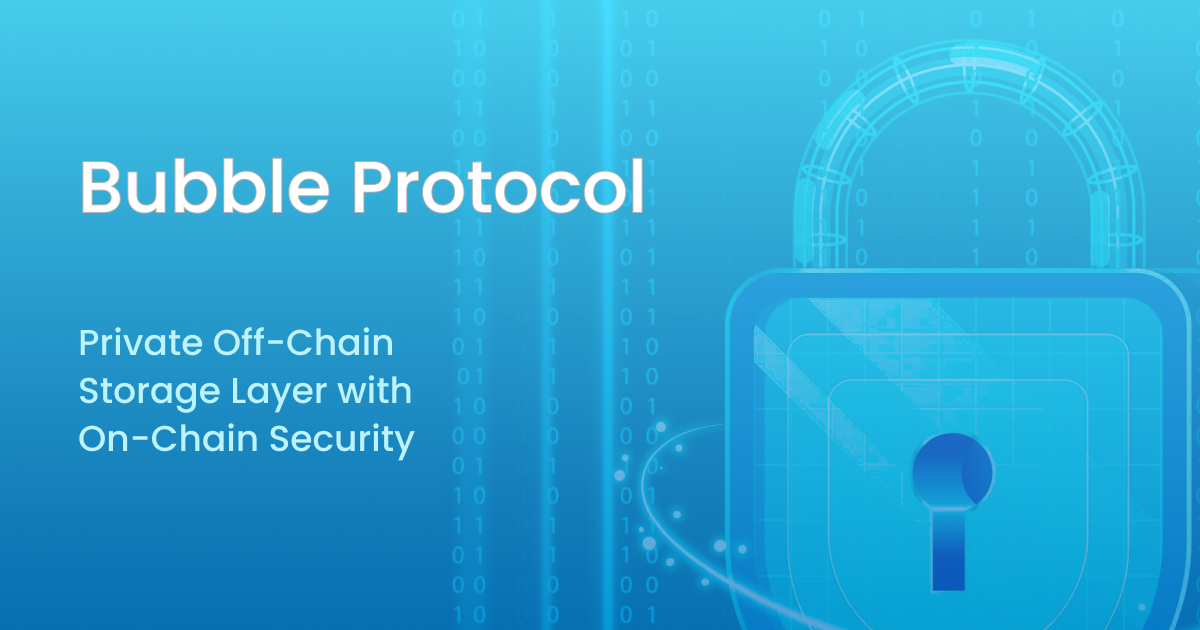
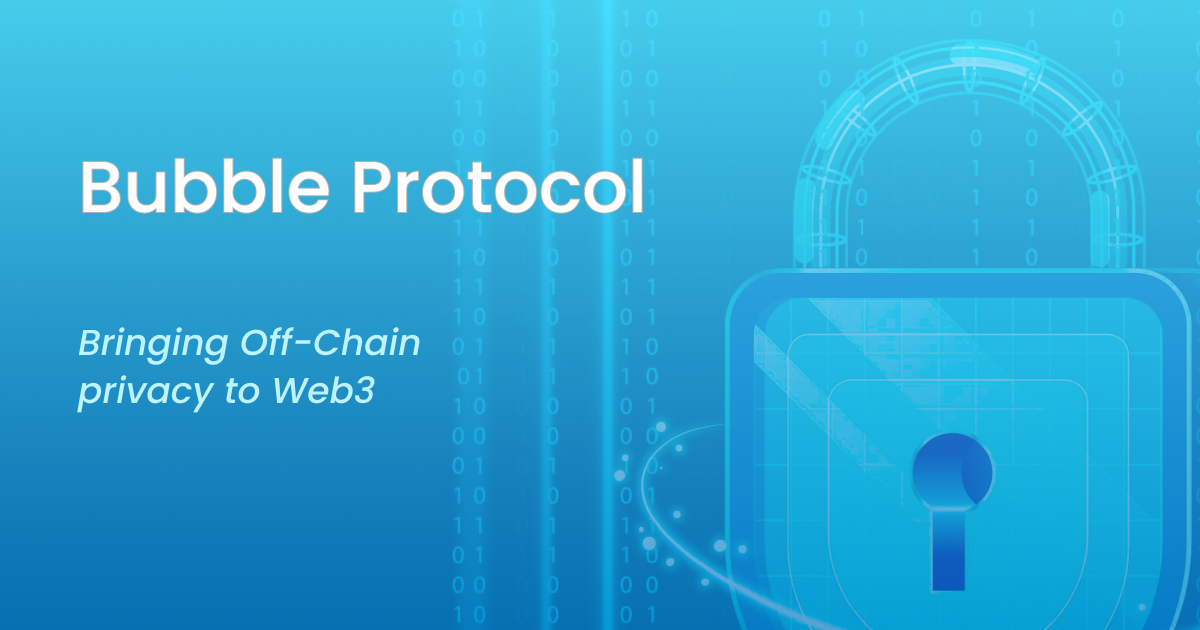
tweak og data and image

Changed region(s): [[0.0617, 0.6032, 0.3392, 0.7238], [0.0617, 0.5127, 0.3392, 0.573]]

diff --git a/how-it-works.html b/how-it-works.html
@@ -9,7 +9,7 @@
     <title>Bubble</title>
     <meta property="og:title" content="Bubble Protocol">
     <meta property="og:type" content="website" />
-    <meta property="og:description" content="Private off-chain storage layer for Web3">
+    <meta property="og:description" content="Private off-chain storage layer with on-chain security">
     <meta property="og:image" content="https://bubbleprotocol.com/images/bubble-protocol-web-image.png">
     <meta property="og:url" content="https://bubbleprotocol.com">
     <meta name="twitter:card" content="summary_large_image">    <meta charset="utf-8" />

diff --git a/index.html b/index.html
@@ -9,7 +9,7 @@
     <title>Bubble</title>
     <meta property="og:title" content="Bubble Protocol">
     <meta property="og:type" content="website" />
-    <meta property="og:description" content="Private off-chain storage layer for Web3">
+    <meta property="og:description" content="Private off-chain storage layer with on-chain security">
     <meta property="og:image" content="https://bubbleprotocol.com/images/bubble-protocol-web-image.png">
     <meta property="og:url" content="https://bubbleprotocol.com">
     <meta name="twitter:card" content="summary_large_image">    <meta charset="utf-8" />

diff --git a/learn.html b/learn.html
@@ -9,7 +9,7 @@
     <title>Bubble</title>
     <meta property="og:title" content="Bubble Protocol">
     <meta property="og:type" content="website" />
-    <meta property="og:description" content="Private off-chain storage layer for Web3">
+    <meta property="og:description" content="Private off-chain storage layer with on-chain security">
     <meta property="og:image" content="https://bubbleprotocol.com/images/bubble-protocol-web-image.png">
     <meta property="og:url" content="https://bubbleprotocol.com">
     <meta name="twitter:card" content="summary_large_image">    <meta charset="utf-8" />
